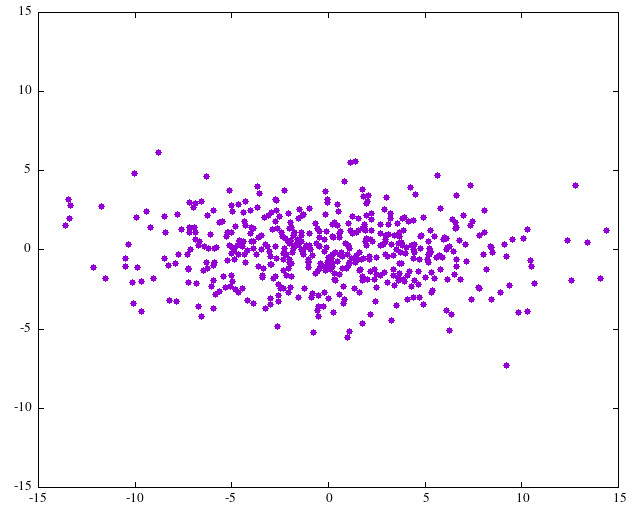
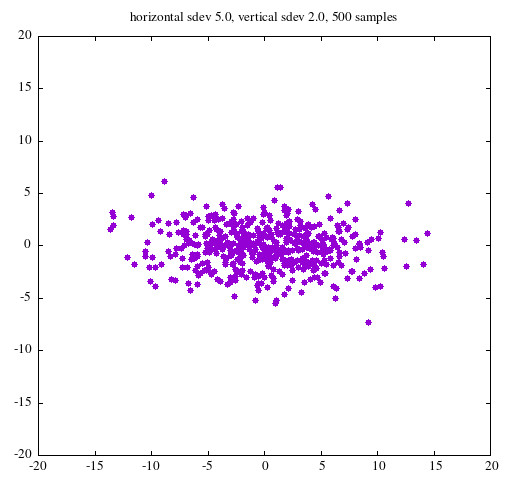
updated readme

diff --git a/README.md b/README.md
@@ -40,6 +40,7 @@ where <em>string</em> is one of:
 <li><em>r</em> -- rotation</li>
 <li><em>g</em> -- gaussian</li>
 <li><em>p</em> -- print</li>
+<li><em>h</em> -- homogeneous</li>
 </ul>
 
 (The single-character strings can actually be any string starting with that
@@ -58,6 +59,7 @@ It's handy to create named lambdas for the mtx opertions.  The ones I use are:
 <li>rotate ← {⍺ mtx['r'] ⍵}</li>
 <li>grand  ← {mtx['g'] ⍵}</li>
 <li>print  ← {⍺ mtx['p'] ⍵}</li>
+<li>homgeneous  ← {⍺ mtx['h'] ⍵}</li>
 </ul>
 
 ## Details
@@ -103,7 +105,13 @@ with a standard deviation of 5.0 horizontally and 2.0 vertically:
 
 **(mtx['g'] (500 2⍴5.0 2.0)) mtx['p'] 's500.data'**
 
-![A scatterplot of normally distributed points in 2-space](s500.jpg "Normal distribution")
+![A scatterplot of 500 normally distributed points in 2-space](s500.jpg
+ "Normal distribution")
+ 
+**(mtx['g'] (5000 2⍴5.0 2.0)) mtx['p'] 's5000.data'**
+
+![A scatterplot of 5000 normally distributed points in 2-space](s5000.jpg
+ "Normal distribution")
 
 (See Pretty-print (**mtx['p]**) below.)
 
@@ -124,6 +132,11 @@ Pretty-prints matrices:
 >*matrix* mtx['p'] '*filename*'
 
 Actually, the "matrix" argument may be of any shape.
+
+#### Homogeneous
+
+(tx ty tz) mtx['h'] rx ry rz returns a homogeneous matrix of the given
+translation and rotation .
 
 ### Ambivalent
 
